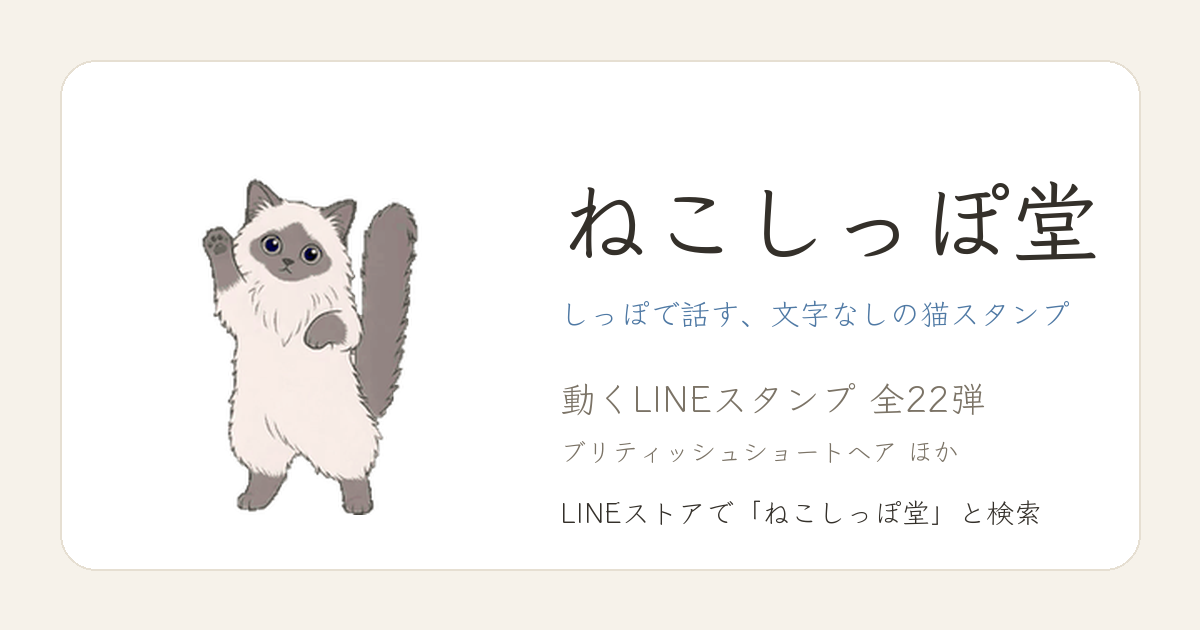
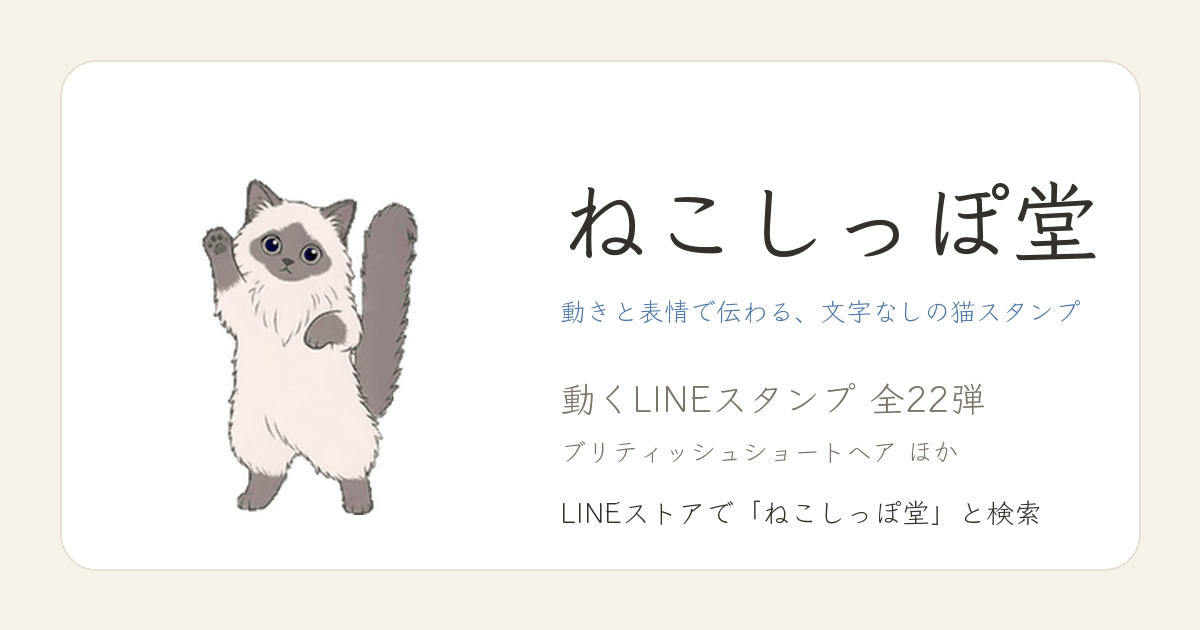
言い方を動きと表情に統一

Changed region(s): [[0.4625, 0.4825, 0.8942, 0.5127]]

diff --git a/docs/index.html b/docs/index.html
@@ -3,10 +3,10 @@
 <head>
 <meta charset="utf-8">
 <meta name="viewport" content="width=device-width,initial-scale=1">
-<title>ねこしっぽ堂｜しっぽで話す、文字なしの猫スタンプ</title>
-<meta name="description" content="しっぽで話す、文字なしの猫スタンプ。ブリティッシュショートヘア・ブリティッシュ・ブリティッシュ長毛・ブリティッシュ・ブリティッシュ・ブリティッシュ・ブリティッシュ・ブリティッシュ・ブリティッシュ・ブリティッシュ・ブリティッシュ長毛・ブリティッシュ長毛・ラグドール・ラグドール・ラグドール・アメリカンショートヘア・サイベリアン・スコティッシュフォールド・マンチカン・ミヌエット・茶トラ・キジトラ の動くLINEスタンプ、全22弾のまとめです。">
+<title>ねこしっぽ堂｜動きと表情で伝わる、文字なしの猫スタンプ</title>
+<meta name="description" content="動きと表情で伝わる、文字なしの猫スタンプ。ブリティッシュショートヘア・ブリティッシュ・ブリティッシュ長毛・ブリティッシュ・ブリティッシュ・ブリティッシュ・ブリティッシュ・ブリティッシュ・ブリティッシュ・ブリティッシュ・ブリティッシュ長毛・ブリティッシュ長毛・ラグドール・ラグドール・ラグドール・アメリカンショートヘア・サイベリアン・スコティッシュフォールド・マンチカン・ミヌエット・茶トラ・キジトラ の動くLINEスタンプ、全22弾のまとめです。">
 <meta property="og:title" content="ねこしっぽ堂｜動くLINEスタンプ 全22弾">
-<meta property="og:description" content="しっぽで話す、文字なしの猫スタンプ。ブリティッシュショートヘア・ブリティッシュ・ブリティッシュ長毛・ブリティッシュ・ブリティッシュ・ブリティッシュ・ブリティッシュ・ブリティッシュ・ブリティッシュ・ブリティッシュ・ブリティッシュ長毛・ブリティッシュ長毛・ラグドール・ラグドール・ラグドール・アメリカンショートヘア・サイベリアン・スコティッシュフォールド・マンチカン・ミヌエット・茶トラ・キジトラ の動くLINEスタンプ、全22弾のまとめです。">
+<meta property="og:description" content="動きと表情で伝わる、文字なしの猫スタンプ。ブリティッシュショートヘア・ブリティッシュ・ブリティッシュ長毛・ブリティッシュ・ブリティッシュ・ブリティッシュ・ブリティッシュ・ブリティッシュ・ブリティッシュ・ブリティッシュ・ブリティッシュ長毛・ブリティッシュ長毛・ラグドール・ラグドール・ラグドール・アメリカンショートヘア・サイベリアン・スコティッシュフォールド・マンチカン・ミヌエット・茶トラ・キジトラ の動くLINEスタンプ、全22弾のまとめです。">
 <meta property="og:type" content="website">
 <meta property="og:url" content="https://nekoshippo-do.com/">
 <meta property="og:image" content="https://nekoshippo-do.com/ogp.png">
@@ -72,8 +72,8 @@ footer a{color:var(--muted)}
 <div class="wrap">
   <header>
     <h1>ねこしっぽ堂</h1>
-    <p class="tag">しっぽで話す、文字なしの猫スタンプ</p>
-    <div class="intro"><p>はじめまして。ねこしっぽ堂です。</p><p>しっぽと表情だけで気持ちを伝える、文字なしの動くスタンプを作っています。</p><p>猫種や毛柄ごとに、その子らしい仕草を24個そろえました🐈</p></div>
+    <p class="tag">動きと表情で伝わる、文字なしの猫スタンプ</p>
+    <div class="intro"><p>はじめまして。ねこしっぽ堂です。</p><p>動きと表情で気持ちを伝える、文字なしの動くスタンプを作っています。</p><p>猫種や毛柄ごとに、その子らしい仕草を24個そろえました🐈</p></div>
     <nav class="links"><a href="https://store.line.me/stickershop/author/6558314/ja" target="_blank" rel="noopener">LINEストア</a><a href="https://www.instagram.com/nekoshippo.do/" target="_blank" rel="noopener">Instagram</a><a href="https://www.threads.com/@nekoshippo.do" target="_blank" rel="noopener">Threads</a><a href="https://www.tiktok.com/@nekoshippo.do" target="_blank" rel="noopener">TikTok</a></nav>
     <div class="search">LINEアプリのスタンプショップで <b>「ねこしっぽ堂」</b> と検索しても見つかります。</div>
   </header>
